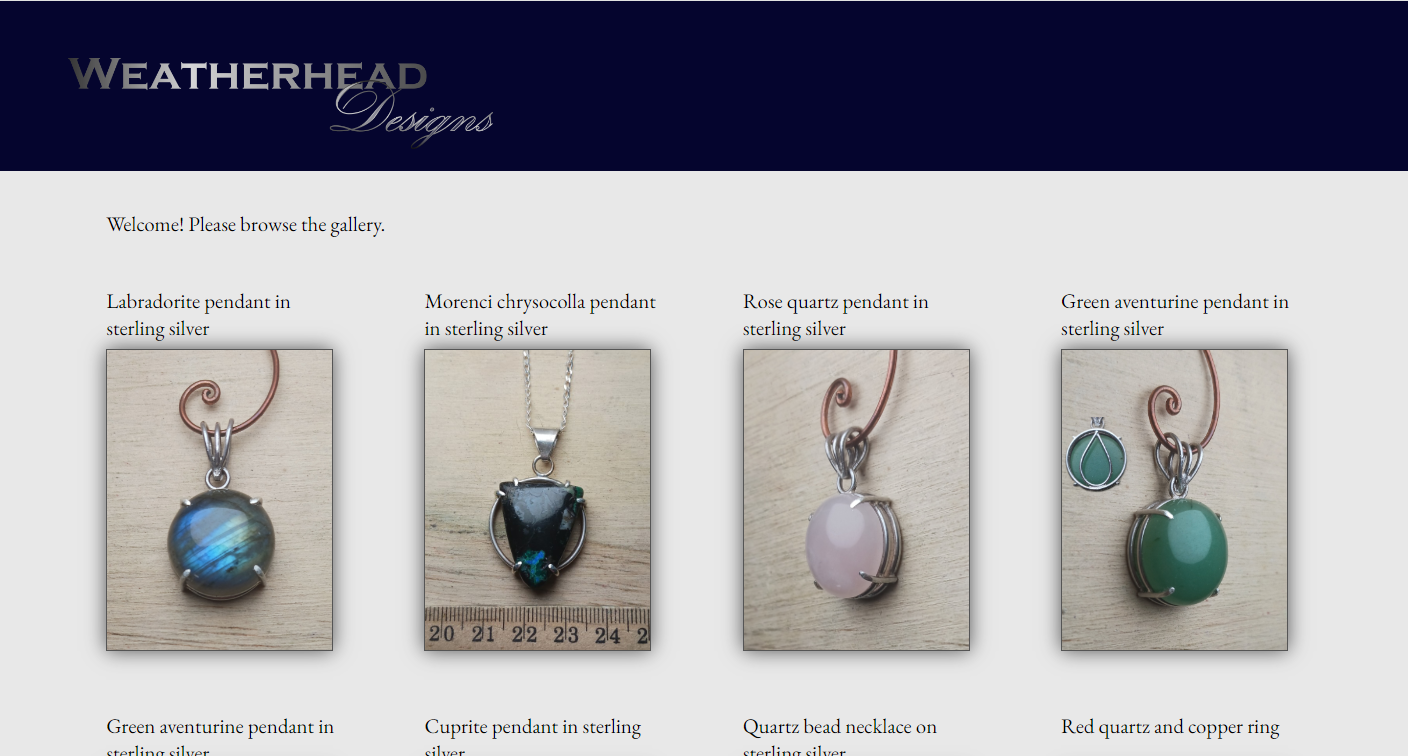
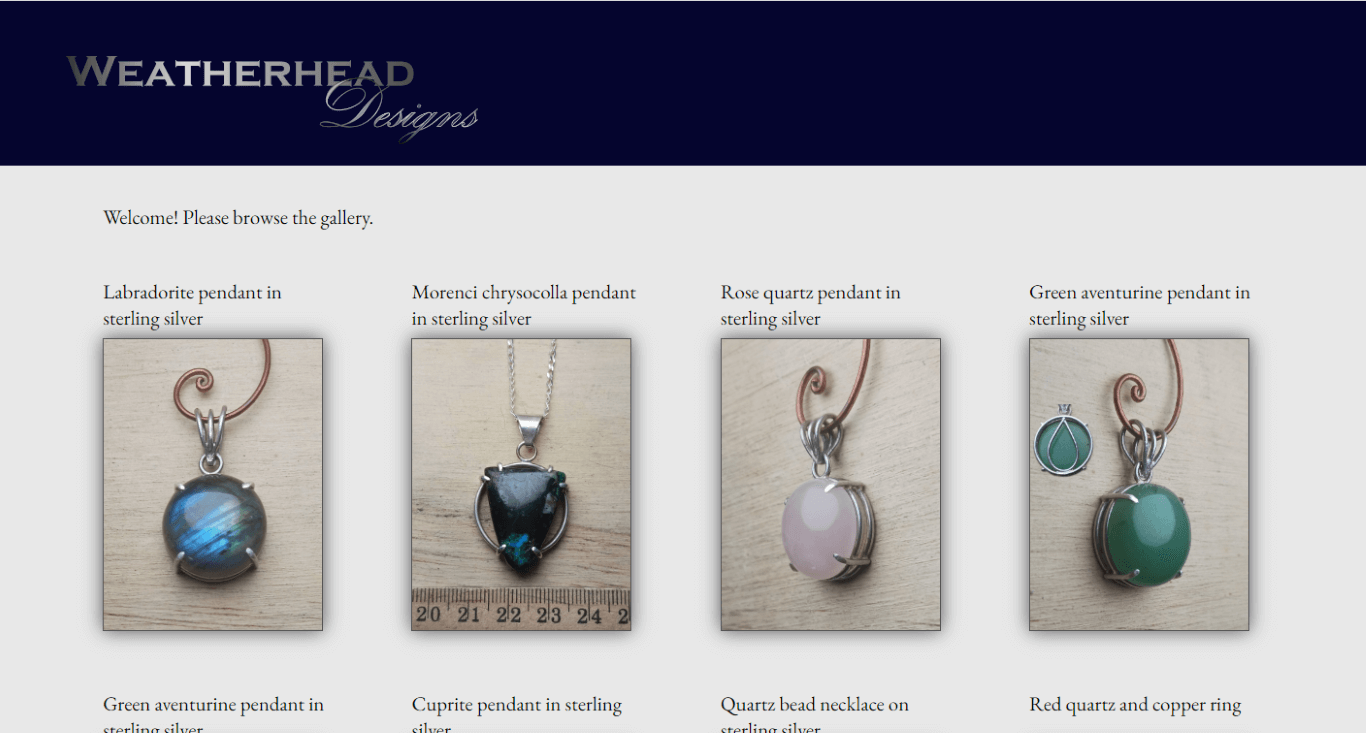
Made smaller versions of portfolio images for thumbnails. Made all portfolio image files smaller using tinypng.com. Updated portfolioCarousel.js to used the new thumbnail images.

diff --git a/js/portfolioCarousel.js b/js/portfolioCarousel.js
@@ -3,6 +3,8 @@ const portfolioItems = [
         name: "CSSsandbox",
         articleLink: "/CSSsandbox/index.html",
         imgSrc: "img/folio_sandbox.png",
+        thumbSrc: "img/folio_sandbox_small.png",
+        thumbSrc: "",
         h3Text: "Design Showcase",
         bodyText: "<p>Check out these neat designs and effects I've made. My favorite is one that looks iridescent.</p>",
     },
@@ -10,6 +12,7 @@ const portfolioItems = [
         name: "jewelery",
         articleLink: "https://www.weatherheaddesigns.com",
         imgSrc: "img/folio_weatherheaddesigns.png",
+        thumbSrc: "img/folio_weatherheaddesigns_small.png",
         h3Text: "WeatherheadDesigns.com",
         bodyText: "<p>My personal jewellery website. Inventory can be updated quickly, easily and seamlessly: new product details get added to a database, and the code does the rest of the work.</p>",
     },
@@ -17,6 +20,7 @@ const portfolioItems = [
         name: "CreNav",
         articleLink: "/CreNav/index.php",
         imgSrc: "img/folio_crenav.png",
+        thumbSrc: "img/folio_crenav_small.png",
         h3Text: "Implementing a more complex design",
         bodyText: "<p>My replica of <a href='https://creativenavigation.com/' target='_blank'>an existing website</a>, with the addition of responsive design for mobile devices. It includes a functional \"Contact Us\" form and interactive mouse-over effects for key images and navigation links.</p>",
     },
@@ -24,6 +28,7 @@ const portfolioItems = [
         name: "boognish",
         articleLink: "http://www.whatdoesitween.com",
         imgSrc: "img/folio_boognish.png",
+        thumbSrc: "img/folio_boognish_small.png",
         h3Text: "WhatDoesItWeen.com",
         bodyText: "<p>A fansite for the band Ween. Updates are easy: the code automatically adds all song listings from the database. The site also features a snake game.</p>",
     },
@@ -31,6 +36,7 @@ const portfolioItems = [
         name: "pianoLessons",
         articleLink: "/piano/index.html",
         imgSrc: "img/folio_pianolessons.png",
+        thumbSrc: "img/folio_pianolessons_small.png",
         h3Text: "Multi-page small-business site",
         bodyText: "<p>A website I made for my friend. It's no longer online. I've replicated it here (some of the wording has been replaced for privacy reasons).</p>",
     },
@@ -38,6 +44,7 @@ const portfolioItems = [
         name: "portfolio_v2",
         articleLink: "/v2/index.php",
         imgSrc: "img/folio_portfolio_v2.png",
+        thumbSrc: "img/folio_portfolio_v2_small.png",
         h3Text: "This website (2024-2025)",
         bodyText: "<p>Here's a previous version of this website. The front page features a shimmering-text effect. I had some fun with the light/dark mode settings.</p>",
     },
@@ -45,6 +52,7 @@ const portfolioItems = [
         name: "this",
         articleLink: "#Home",
         imgSrc: "img/folio_this.png",
+        thumbSrc: "img/folio_this_small.png",
         h3Text: "WeatherheadOnline.com",
         bodyText: "<p>This website! It's pretty great. Stop by the Special Effects section if you haven't already. Thanks for visiting!</p>",
     },
@@ -71,7 +79,7 @@ for (let article = 0; article <= portfolioItems.length - 1; article++) {
     const buttonDiv = document.createElement("img");
     buttonDiv.className = "folio_thumbnail";
     buttonDiv.id = portfolioItems[article].name;
-    buttonDiv.src = portfolioItems[article].imgSrc;
+    buttonDiv.src = portfolioItems[article].thumbSrc;
     portfolioThumbnails.appendChild(buttonDiv);
 }
 
